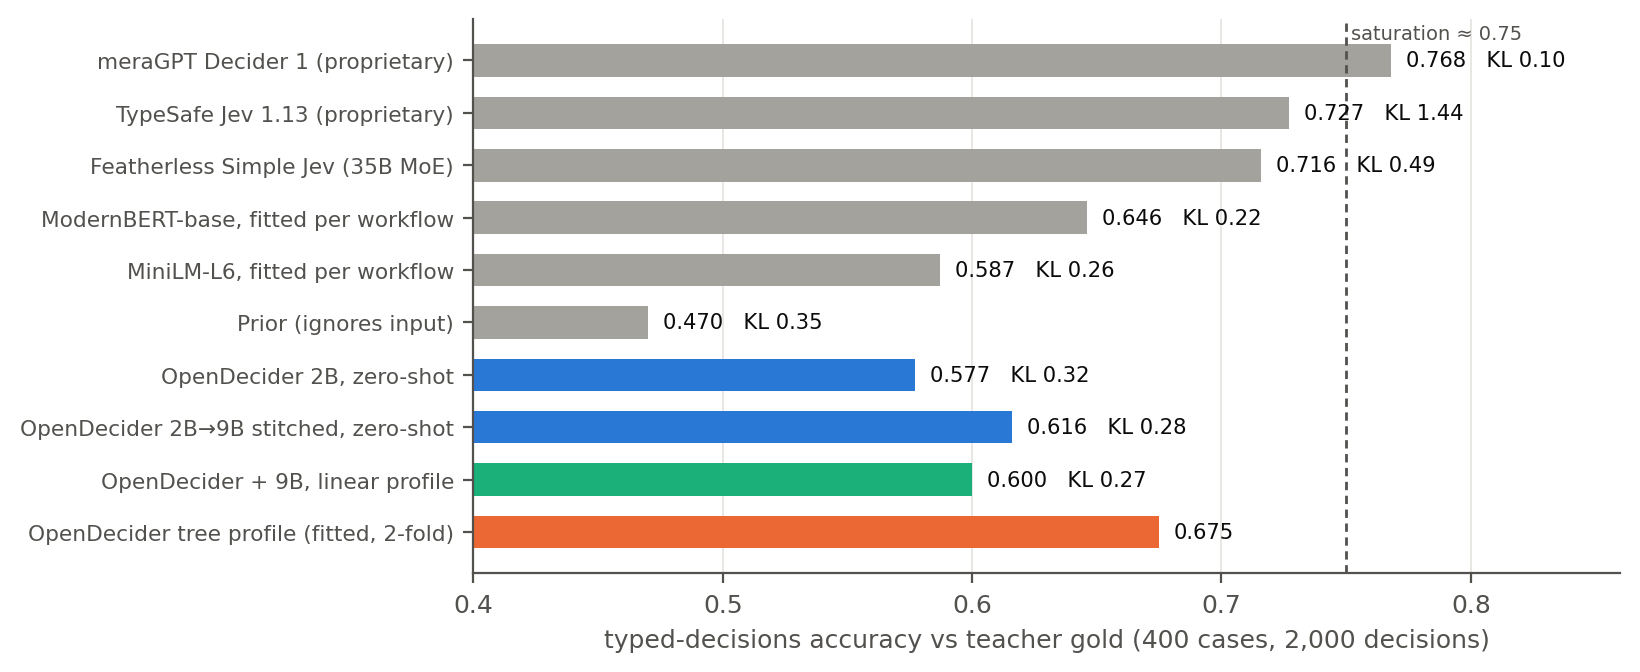
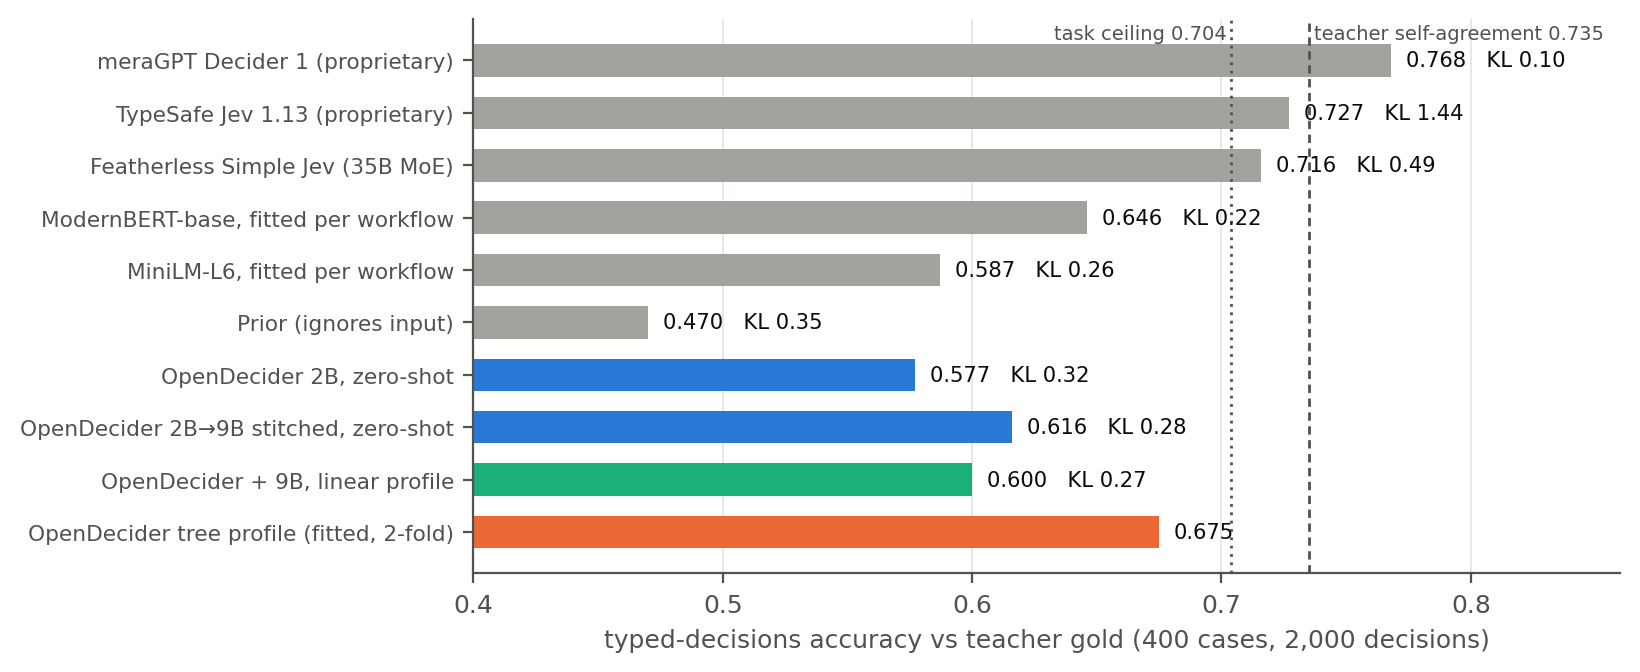
typed-decisions chart: label the dataset card's ceilings (0.704 task, 0.735 teacher self-agreement)

Changed region(s): [[0.7774, 0.0312, 0.9951, 0.0625], [0.622, 0.0312, 0.7463, 0.0625]]

diff --git a/docs/make_figures.py b/docs/make_figures.py
@@ -32,7 +32,11 @@ for yi, r in zip(y, rows):
     ax.text(r[1] + 0.006, yi, lab, va="center", fontsize=7.6, color=INK)
 ax.set_yticks(y); ax.set_yticklabels([r[0] for r in rows], fontsize=7.8)
 ax.set_xlim(0.4, 0.86); ax.set_xlabel("typed-decisions accuracy vs teacher gold (400 cases, 2,000 decisions)")
-ax.axvline(0.75, color=INK2, lw=1, ls=(0, (3, 2))); ax.text(0.752, len(rows) - 0.6, "saturation ≈ 0.75", fontsize=7, color=INK2)
+# reference points from the dataset card (rev f7a2487edd7a): gold = mean of 3 samples from a ~4B teacher
+ax.axvline(0.704, color=INK2, lw=1, ls=(0, (1, 2)))
+ax.text(0.702, len(rows) - 0.6, "task ceiling 0.704", fontsize=7, color=INK2, ha="right")
+ax.axvline(0.735, color=INK2, lw=1, ls=(0, (3, 2)))
+ax.text(0.737, len(rows) - 0.6, "teacher self-agreement 0.735", fontsize=7, color=INK2)
 ax.grid(axis="y", visible=False)
 fig.savefig("docs/img/typed_decisions.png"); plt.close(fig)
 

diff --git a/README.md b/README.md
@@ -82,6 +82,11 @@ Full tables: [`docs/RESULTS.md`](docs/RESULTS.md).
 Leaderboard rows are self-reported on the dataset card (read 2026-09-28). Specialist models trained on the benchmark's
 own train split score higher (Verdict 2.0: 0.771, Laya: 0.766).
 
+The gold labels come from a teacher model, so accuracy measures agreement with that teacher, not correctness. The
+dataset card gives two ceilings: 0.704 for a model fitted to the factors that generated each case ("perfect scenario
+understanding") and 0.735 for the teacher agreeing with itself. It reads about 0.75 as saturation: scores above it
+mostly reflect the teacher's quirks.
+
 ### Public benchmarks
 
 <p align="center"><img src="docs/img/public_benchmarks.png" alt="public benchmark accuracy" width="760"></p>
